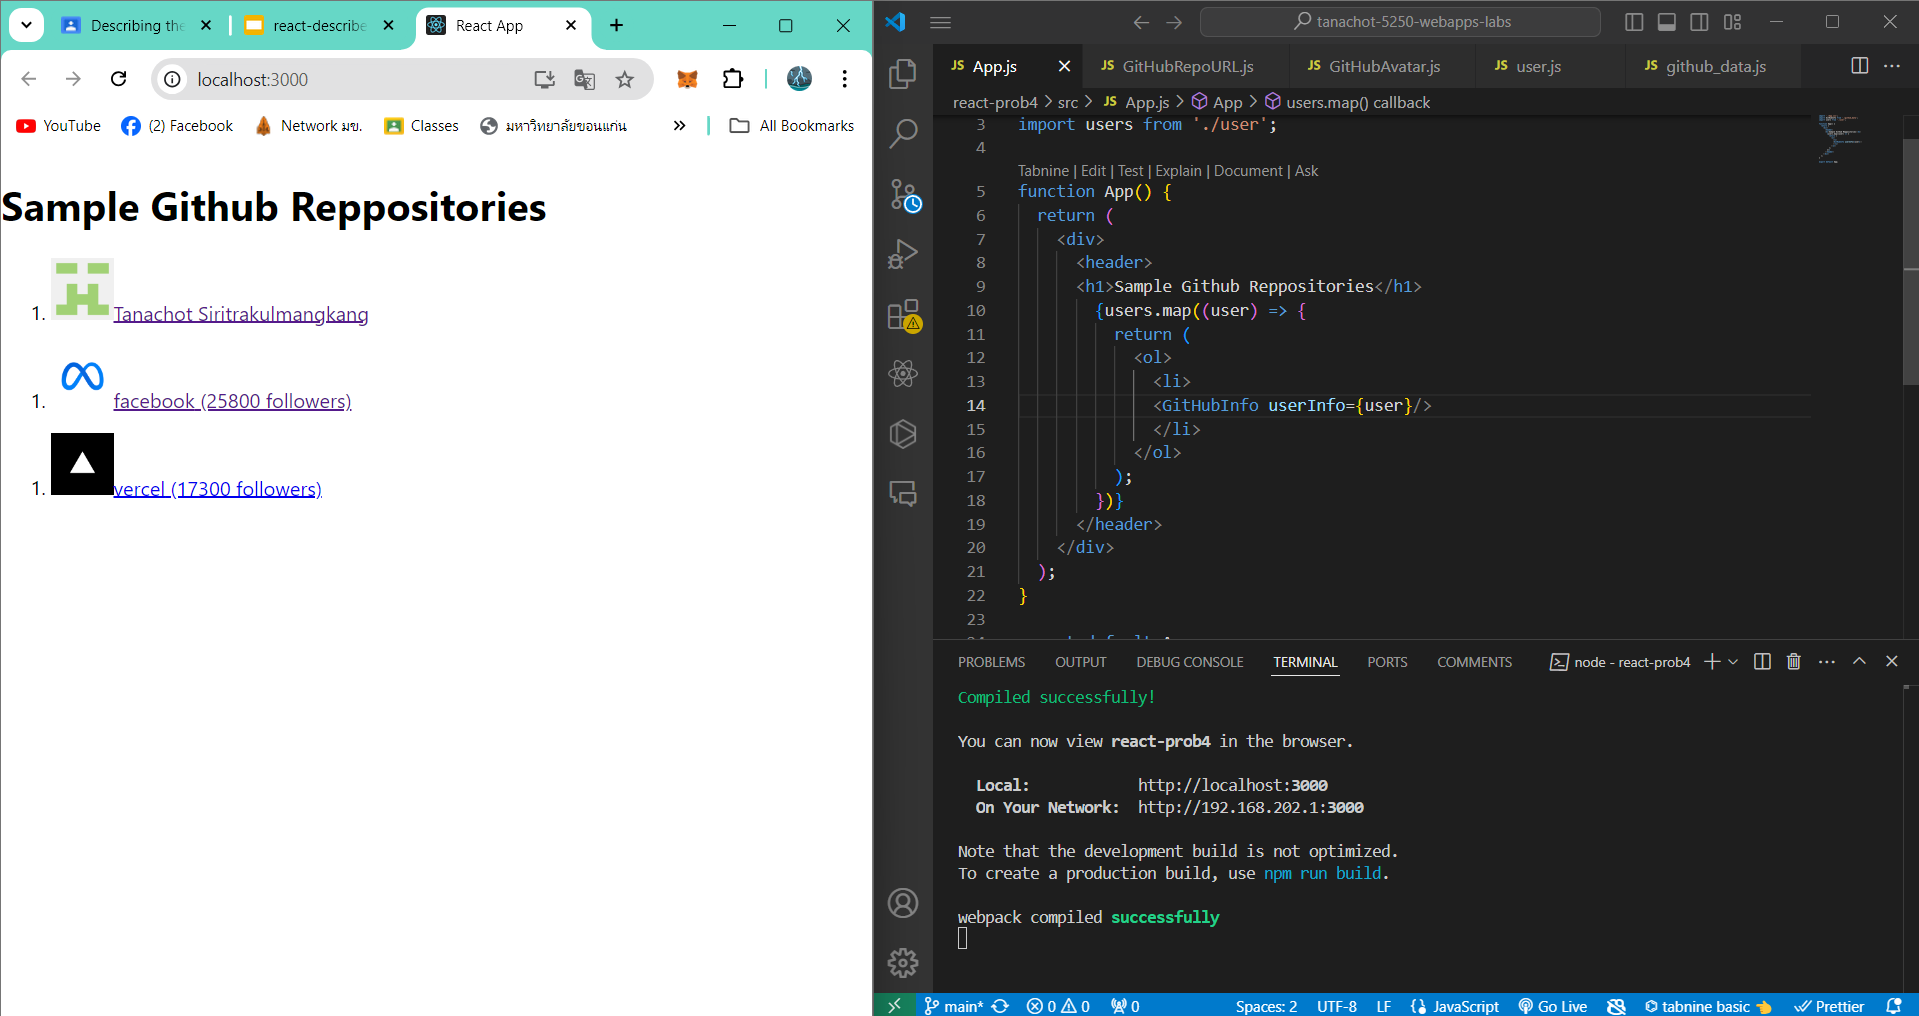
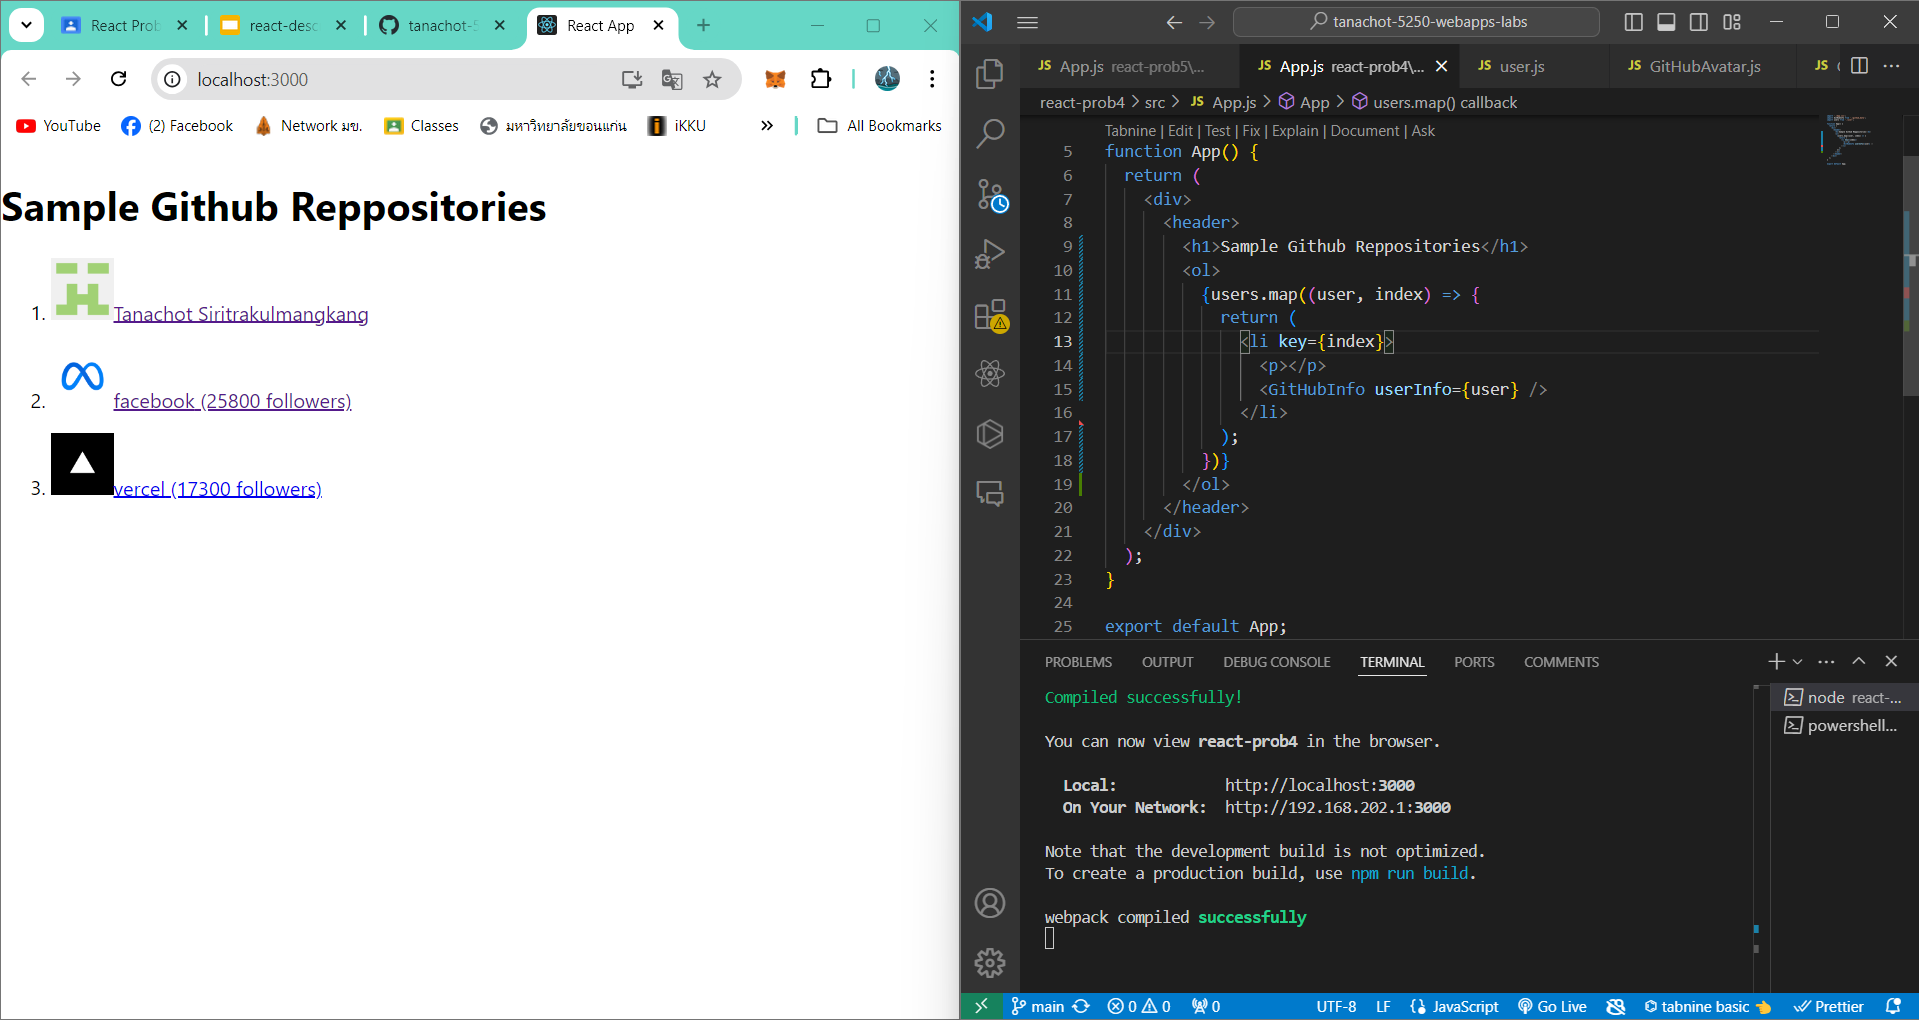
new update ol li

diff --git a/react-prob4/src/App.js b/react-prob4/src/App.js
@@ -6,16 +6,17 @@ function App() {
   return (
     <div>
       <header>
-      <h1>Sample Github Reppositories</h1>
-        {users.map((user) => {
-          return (
-            <ol>
-              <li>
-              <GitHubInfo userInfo={user}/>
+        <h1>Sample Github Reppositories</h1>
+        <ol>
+          {users.map((user, index) => {
+            return (
+              <li key={index}>
+                <p></p>
+                <GitHubInfo userInfo={user} />
               </li>
-            </ol>
-          );
-        })}
+            );
+          })}
+        </ol>
       </header>
     </div>
   );

diff --git a/react-prob5/src/App.js b/react-prob5/src/App.js
@@ -7,15 +7,15 @@ function App() {
     <div>
       <header>
       <h1>Sample Github Reppositories</h1>
+      <ol>
       {users.filter((user) => user.followers > 10000).map((user) => {
           return (
-            <ol>
               <li>
               <GitHubInfo userInfo={user}/>
               </li>
-            </ol>
           );
         })}
+        </ol>
       </header>
     </div>
   );
